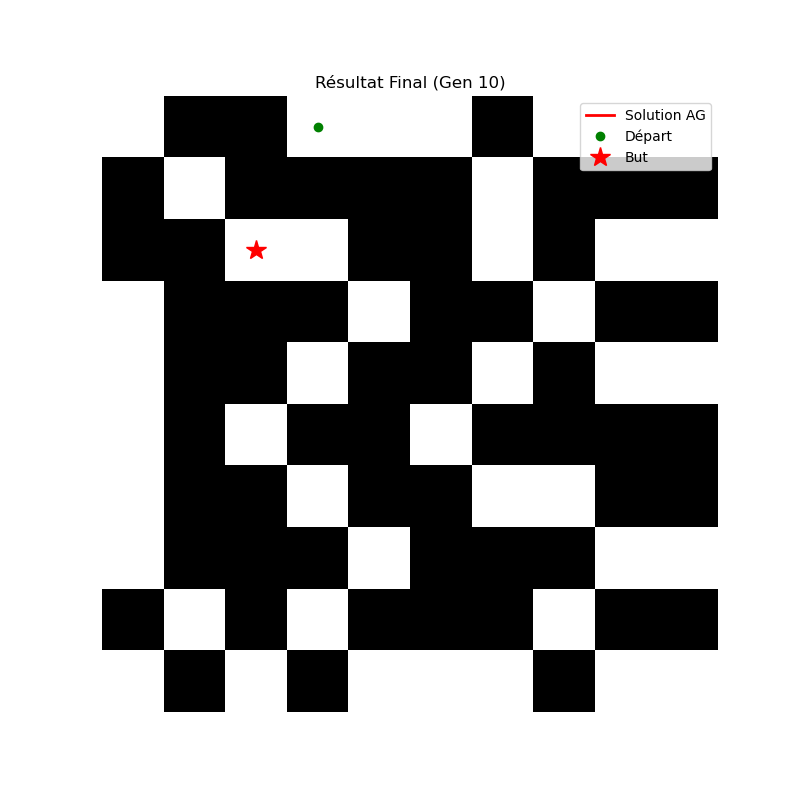
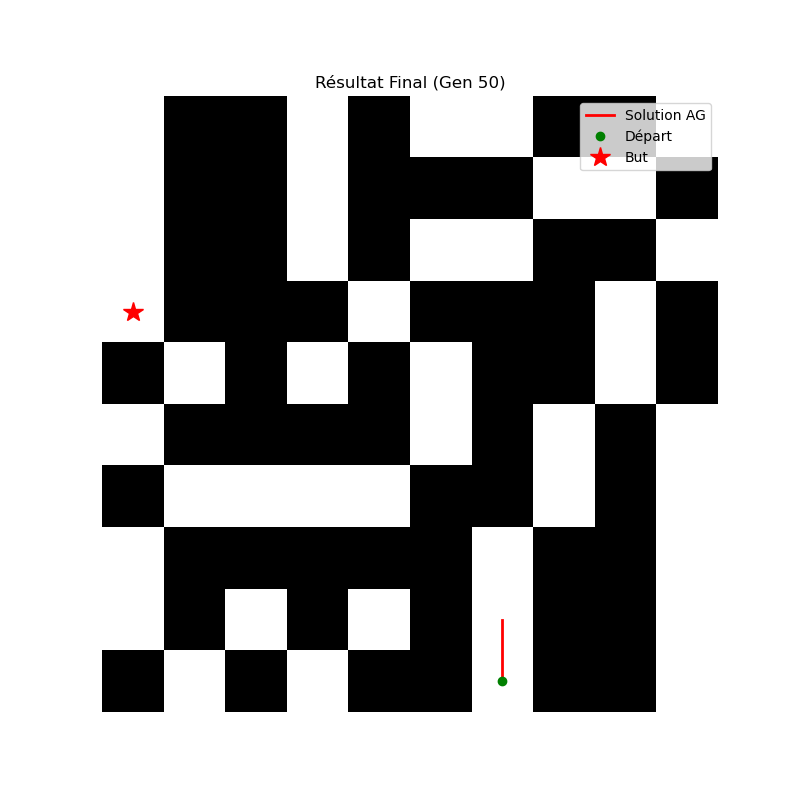
first commit

Changed region(s): [[0.125, 0.0938, 0.9062, 0.9062], [0.125, 0.0938, 0.5312, 0.6562]]

diff --git a/main.py b/main.py
@@ -142,10 +142,10 @@ def main():
     print("\n--- Lancement de l'Algorithme Génétique Complet ---")
     
     # HYPERPARAMETR§ES
-    MAX_GEN = 10
+    MAX_GEN = 50
     TS = 0.5
     TM = 0.08
-    POPULATION_SIZE = 5
+    POPULATION_SIZE = 100
     GENOME_LENGTH = N * 3
     USE_PHEROMONES = True
     
